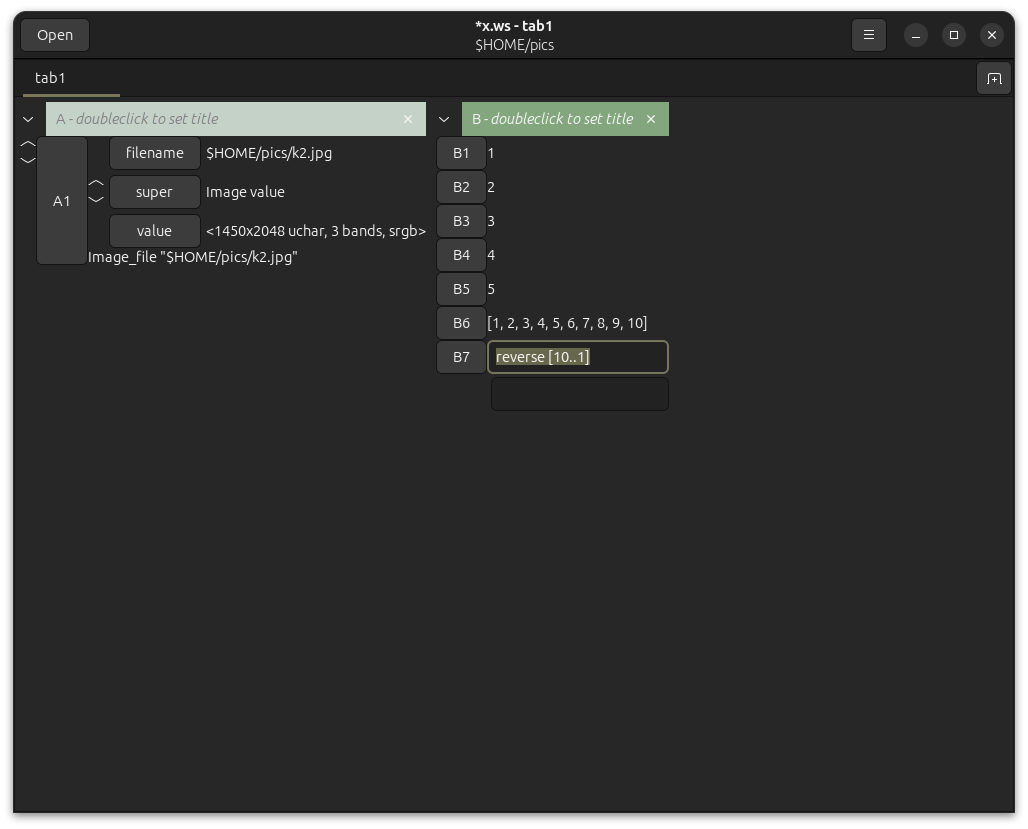
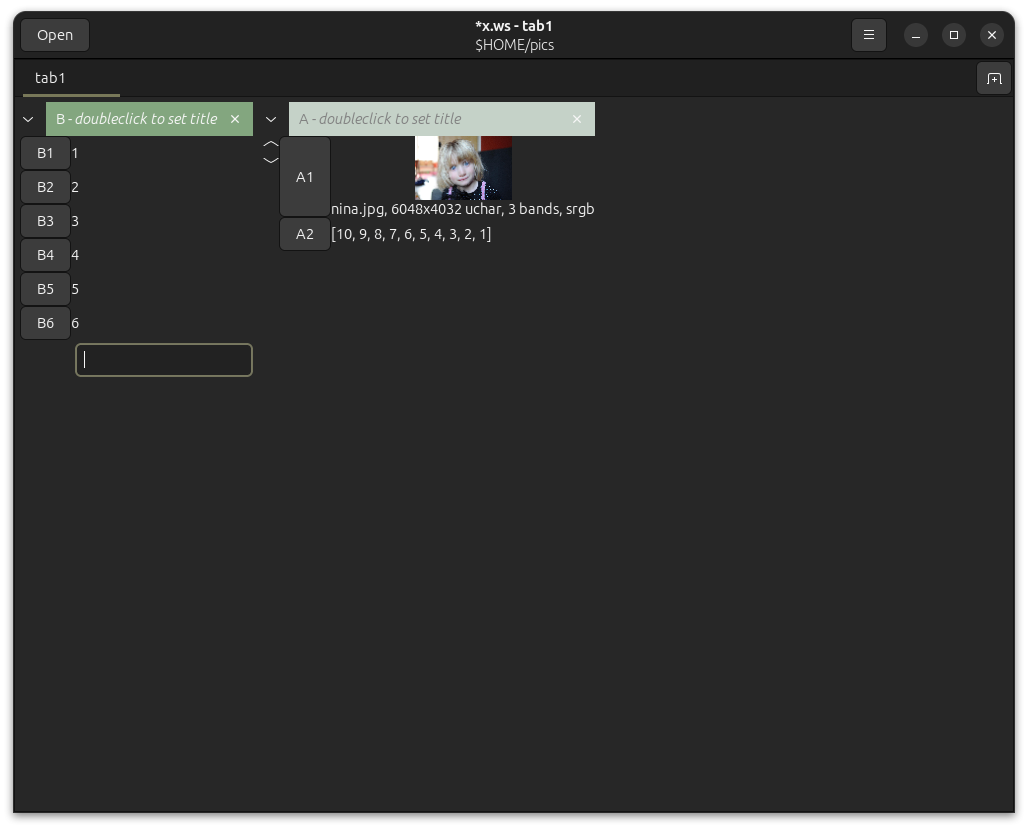
thumbnail display works!
some snags to fix still

Changed region(s): [[0.0311, 0.1206, 0.6537, 0.3619], [0.4358, 0.392, 0.6537, 0.4524]]

diff --git a/src/gtk/nip4.css b/src/gtk/nip4.css
@@ -11,4 +11,8 @@
   background-color: #5D7555;
 }
 
+#label {
+  color: #802020;
+}
+
 

diff --git a/src/iimageview.c b/src/iimageview.c
@@ -50,6 +50,7 @@ iimageview_dispose(GObject *object)
 #endif /*DEBUG*/
 
 	UNPARENT(iimageview->top);
+	VIPS_UNREF(iimageview->tilesource);
 
 	G_OBJECT_CLASS(iimageview_parent_class)->dispose(object);
 }
@@ -197,6 +198,8 @@ iimageview_refresh(vObject *vobject)
 	iImageview *iimageview = IIMAGEVIEW(vobject);
 	iImage *iimage = IIMAGE(vobject->iobject);
 	Row *row = HEAPMODEL(iimage)->row;
+	Imageinfo *ii = iimage->value.ii;
+	VipsImage *image = imageinfo_get(FALSE, ii);
 
 	int w, h;
 	gboolean enabled;
@@ -207,16 +210,29 @@ iimageview_refresh(vObject *vobject)
 #endif /*DEBUG*/
 	printf("iimageview_refresh: FIXME\n");
 
-	/*
-	w = VIPS_MAX(GTK_WIDGET(iimageview->imagedisplay)->requisition.width,
-		DISPLAY_THUMBNAIL);
-	h = DISPLAY_THUMBNAIL;
-	conversion_set_image(iimageview->conv, iimage->value.ii);
-	gtk_widget_set_size_request(GTK_WIDGET(iimageview->imagedisplay), w, h);
-	gtk_widget_queue_draw(GTK_WIDGET(iimageview->imagedisplay));
+	if (iimageview->imagedisplay) {
+		if (!iimageview->tilesource ||
+			image != tilesource_get_image(iimageview->tilesource)) {
+			printf("iimageview_refresh: "
+					"use tilesource_new_from_file() if we can\n");
+			VIPS_UNREF(iimageview->tilesource);
+			iimageview->tilesource = tilesource_new_from_image(image);
 
-	set_gcaption(iimageview->label, "%s", IOBJECT(iimage)->caption);
-	 */
+			g_object_set(iimageview->imagedisplay,
+				"bestfit", TRUE,
+				"tilesource", iimageview->tilesource,
+				NULL);
+
+			// image tilesources are always loaded and can start painting
+			// right away
+			g_object_set(iimageview->tilesource,
+				"loaded", TRUE,
+				NULL);
+		}
+	}
+
+	if (iimageview->label)
+		set_glabel(iimageview->label, "%s", IOBJECT(iimage)->caption);
 
 	/* Set scale/offset for the thumbnail. Use the prefs setting, or if
 	 * there's a setting for this image, override with that.

diff --git a/src/imagedisplay.c b/src/imagedisplay.c
@@ -30,9 +30,9 @@
 #include "nip4.h"
 
 /*
+ */
 #define DEBUG_VERBOSE
 #define DEBUG
- */
 
 // the focus colour we paint
 // FIXME ... we should somehow get this from the theme, I'm not sure how
@@ -95,7 +95,7 @@ G_DEFINE_TYPE_WITH_CODE(Imagedisplay, imagedisplay, GTK_TYPE_DRAWING_AREA,
 	G_IMPLEMENT_INTERFACE(GTK_TYPE_SCROLLABLE, NULL));
 
 enum {
-	/* Set the tilecache we display.
+	/* Set the tilesource we display.
 	 */
 	PROP_TILESOURCE = 1,
 
@@ -106,7 +106,7 @@ enum {
 	PROP_VADJUSTMENT,
 	PROP_VSCROLL_POLICY,
 
-	/* We need bestfit off for eg. suplicate.
+	/* We need bestfit off for eg. duplicate.
 	 */
 	PROP_BESTFIT,
 
@@ -699,7 +699,7 @@ imagedisplay_class_init(ImagedisplayClass *class)
 	widget_class->snapshot = imagedisplay_snapshot;
 
 	g_object_class_install_property(gobject_class, PROP_TILESOURCE,
-		g_param_spec_object("tile-source",
+		g_param_spec_object("tilesource",
 			_("Tile source"),
 			_("The tile source to be displayed"),
 			TILESOURCE_TYPE,

diff --git a/src/tilesource.c b/src/tilesource.c
@@ -29,8 +29,8 @@
 
 /*
 #define DEBUG_VERBOSE
-#define DEBUG
  */
+#define DEBUG
 
 #include "nip4.h"
 
@@ -1094,7 +1094,7 @@ tilesource_class_init(TilesourceClass *class)
 		g_param_spec_enum("mode",
 			_("Mode"),
 			_("Display mode"),
-			TYPE_MODE,
+			TILESOURCE_MODE_TYPE,
 			TILESOURCE_MODE_MULTIPAGE,
 			G_PARAM_READWRITE));
 
@@ -1253,9 +1253,9 @@ tilesource_print(Tilesource *tilesource)
 	printf("\tpages_same_size = %d\n", tilesource->pages_same_size);
 	printf("\tall_mono = %d\n", tilesource->all_mono);
 	printf("\ttype = %s\n",
-		vips_enum_nick(TYPE_SOURCE_TYPE, tilesource->type));
+		vips_enum_nick(TILESOURCE_TYPE_TYPE, tilesource->type));
 	printf("\tmode = %s\n",
-		vips_enum_nick(TYPE_SOURCE_MODE, tilesource->mode));
+		vips_enum_nick(TILESOURCE_MODE_TYPE, tilesource->mode));
 	printf("\tdelay = %p\n", tilesource->delay);
 	printf("\tn_delay = %d\n", tilesource->n_delay);
 	printf("\tdisplay_width = %d\n", tilesource->display_width);

diff --git a/src/imageinfo.c b/src/imageinfo.c
@@ -81,12 +81,12 @@ most of the jobs above are pushed down into vips8 now ... except for
 #include "nip4.h"
 
 /*
- */
 #define DEBUG
 #define DEBUG_MAKE
 #define DEBUG_RGB
 #define DEBUG_OPEN
 #define DEBUG_CHECK
+ */
 
 G_DEFINE_TYPE(Imageinfogroup, imageinfogroup, ICONTAINER_TYPE)
 
@@ -591,6 +591,9 @@ static int
 imageinfo_proxy_eval(Imageinfoproxy *proxy)
 {
 	Imageinfo *imageinfo = proxy->imageinfo;
+
+	printf("imageinfo_proxy_eval: FIXME\n");
+	return;
 
 	if (imageinfo && imageinfo->im->time)
 		if (progress_update_percent(imageinfo->im->time->percent,

diff --git a/src/app.c b/src/app.c
@@ -208,8 +208,7 @@ app_startup(GApplication *app)
 	/* We have custom CSS for our dynamic widgets.
 	 */
 	GtkCssProvider *provider = gtk_css_provider_new();
-	gtk_css_provider_load_from_resource(provider, APP_PATH "/mainwindow.css");
-	gtk_css_provider_load_from_resource(provider, APP_PATH "/columnview.css");
+	gtk_css_provider_load_from_resource(provider, APP_PATH "/nip4.css");
 	gtk_style_context_add_provider_for_display(gdk_display_get_default(),
 		GTK_STYLE_PROVIDER(provider), GTK_STYLE_PROVIDER_PRIORITY_FALLBACK);
 

diff --git a/src/tilecache.c b/src/tilecache.c
@@ -30,10 +30,10 @@
 #include "nip4.h"
 
 /*
-#define DEBUG
+ */
 #define DEBUG_RENDER_TIME
 #define DEBUG_VERBOSE
- */
+#define DEBUG
 
 enum {
 	/* Properties.
@@ -169,6 +169,10 @@ tilecache_texture(TilecacheBackground background)
 static void
 tilecache_init(Tilecache *tilecache)
 {
+#ifdef DEBUG
+	printf("tilecache_init:\n");
+#endif /*DEBUG*/
+
 	tilecache->background = TILECACHE_BACKGROUND_CHECKERBOARD;
 	tilecache->background_texture = tilecache_texture(tilecache->background);
 }

diff --git a/src/iimageview.h b/src/iimageview.h
@@ -45,6 +45,8 @@ typedef struct _iImageview {
 	GtkWidget *top;
 	Imagedisplay *imagedisplay;
 	GtkWidget *label;
+
+	Tilesource *tilesource;
 } iImageview;
 
 typedef struct _iImageviewClass {

diff --git a/src/view.c b/src/view.c
@@ -22,13 +22,13 @@
  */
 
 /*
- */
 #define DEBUG
 #define DEBUG_VIEWCHILD
+ */
 
 /* Time each refresh
- */
 #define DEBUG_TIME
+ */
 
 #include "nip4.h"
 

diff --git a/src/workspacegroupview.c b/src/workspacegroupview.c
@@ -25,8 +25,8 @@
 #include "nip4.h"
 
 /*
- */
 #define DEBUG
+ */
 
 G_DEFINE_TYPE(Workspacegroupview, workspacegroupview, VIEW_TYPE)
 

diff --git a/src/row.c b/src/row.c
@@ -44,8 +44,8 @@
  */
 
 /* Trace create/destroy.
- */
 #define DEBUG_NEW
+ */
 
 /* Dirty/clean stuff.
 #define DEBUG_DIRTY

diff --git a/src/workspaceview.c b/src/workspaceview.c
@@ -28,8 +28,8 @@
  */
 
 /*
- */
 #define DEBUG
+ */
 
 /* Define to trace button press events.
 #define EVENT
